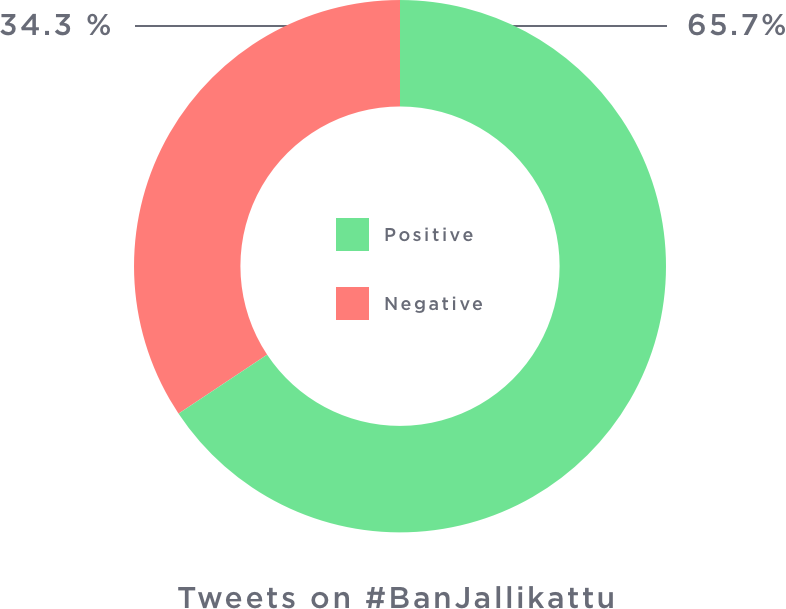
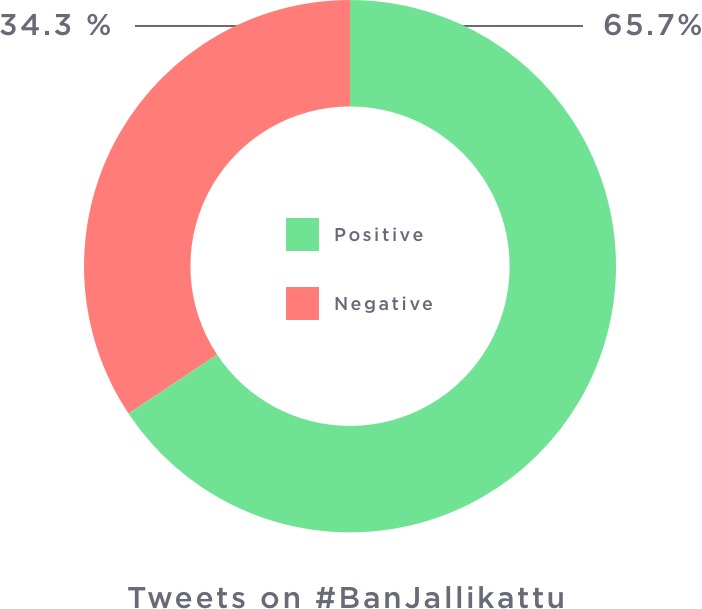
Better images.

diff --git a/public/css/poole.css b/public/css/poole.css
@@ -234,6 +234,12 @@ img {
   border-radius: 5px;
 }
 
+.img350 {
+  display: inline-block;
+  width:350px;
+  vertical-align:middle;
+}
+
 /* Tables */
 table {
   margin-bottom: 1rem;

diff --git a/_posts/2017-02-02-the-jallikattu-protest.md b/_posts/2017-02-02-the-jallikattu-protest.md
@@ -68,8 +68,8 @@ The protest slowly picked up interest on social media and peaked on a 18th and 2
 
 Another interesting study was to see the sentiment of people pro-jallikatu and pro-peta. It was welcoming to see that people supporting Jallikatu were quite positive with their tweets. Quite the hallmark for the peaceful protest! :)
 
-<img src="/public/posts/2017-02-02/banPeta.png" class="img" alt="banPeta Hashtag Analysis" style="display:inline-block; width:320px; vertical-align:middle;"/>
-<img src="/public/posts/2017-02-02/banJallikattu.png" class="img" alt="banJallikattu Hashtag Analysis" style="display:inline-block; width:360px; vertical-align:middle;"/>
+<img src="/public/posts/2017-02-02/banPeta.png" class="img img350" alt="banPeta Hashtag Analysis" />
+<img src="/public/posts/2017-02-02/banJallikattu.png" class="img img350" alt="banJallikattu Hashtag Analysis" />
 
 ### One More Thing
 There was a lot of backlash that national media was hardly covering anything on the peaceful protests. We wondered if this sentiment was accurate or not. So we took the Twitter profiles of popular news networks, and saw the frequency of their coverage from Jan 11th to Jan 21st.
